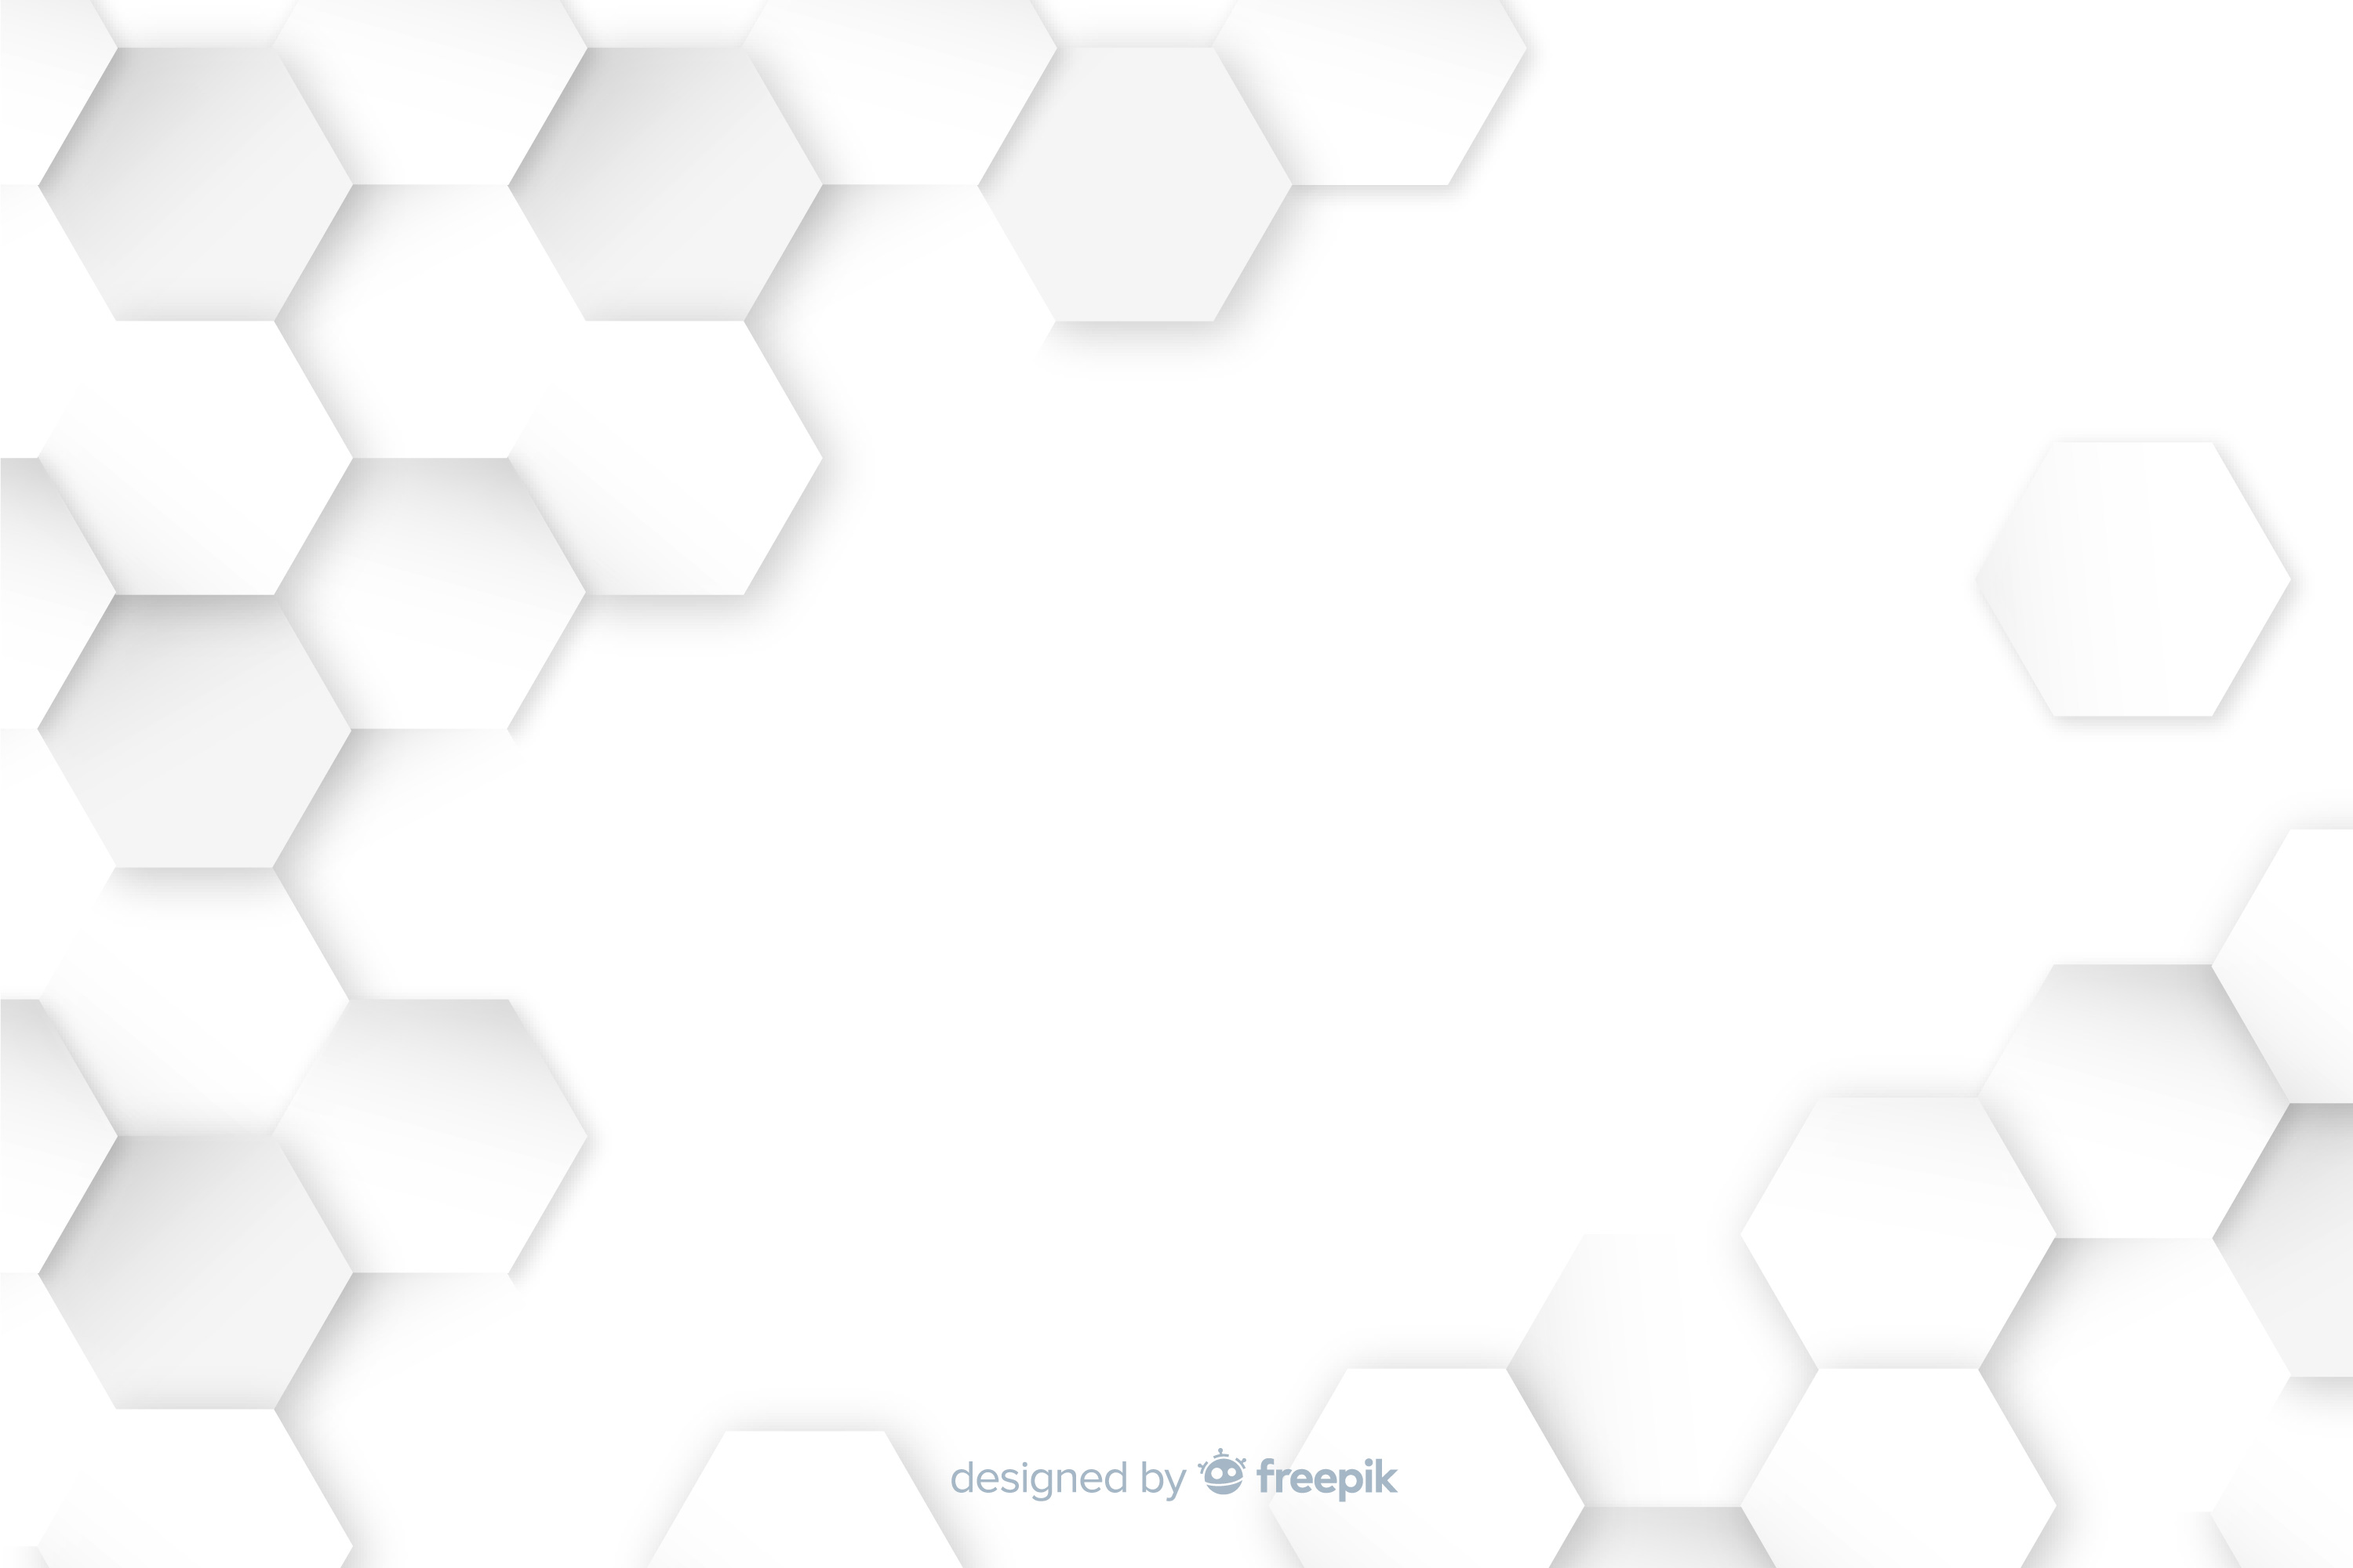
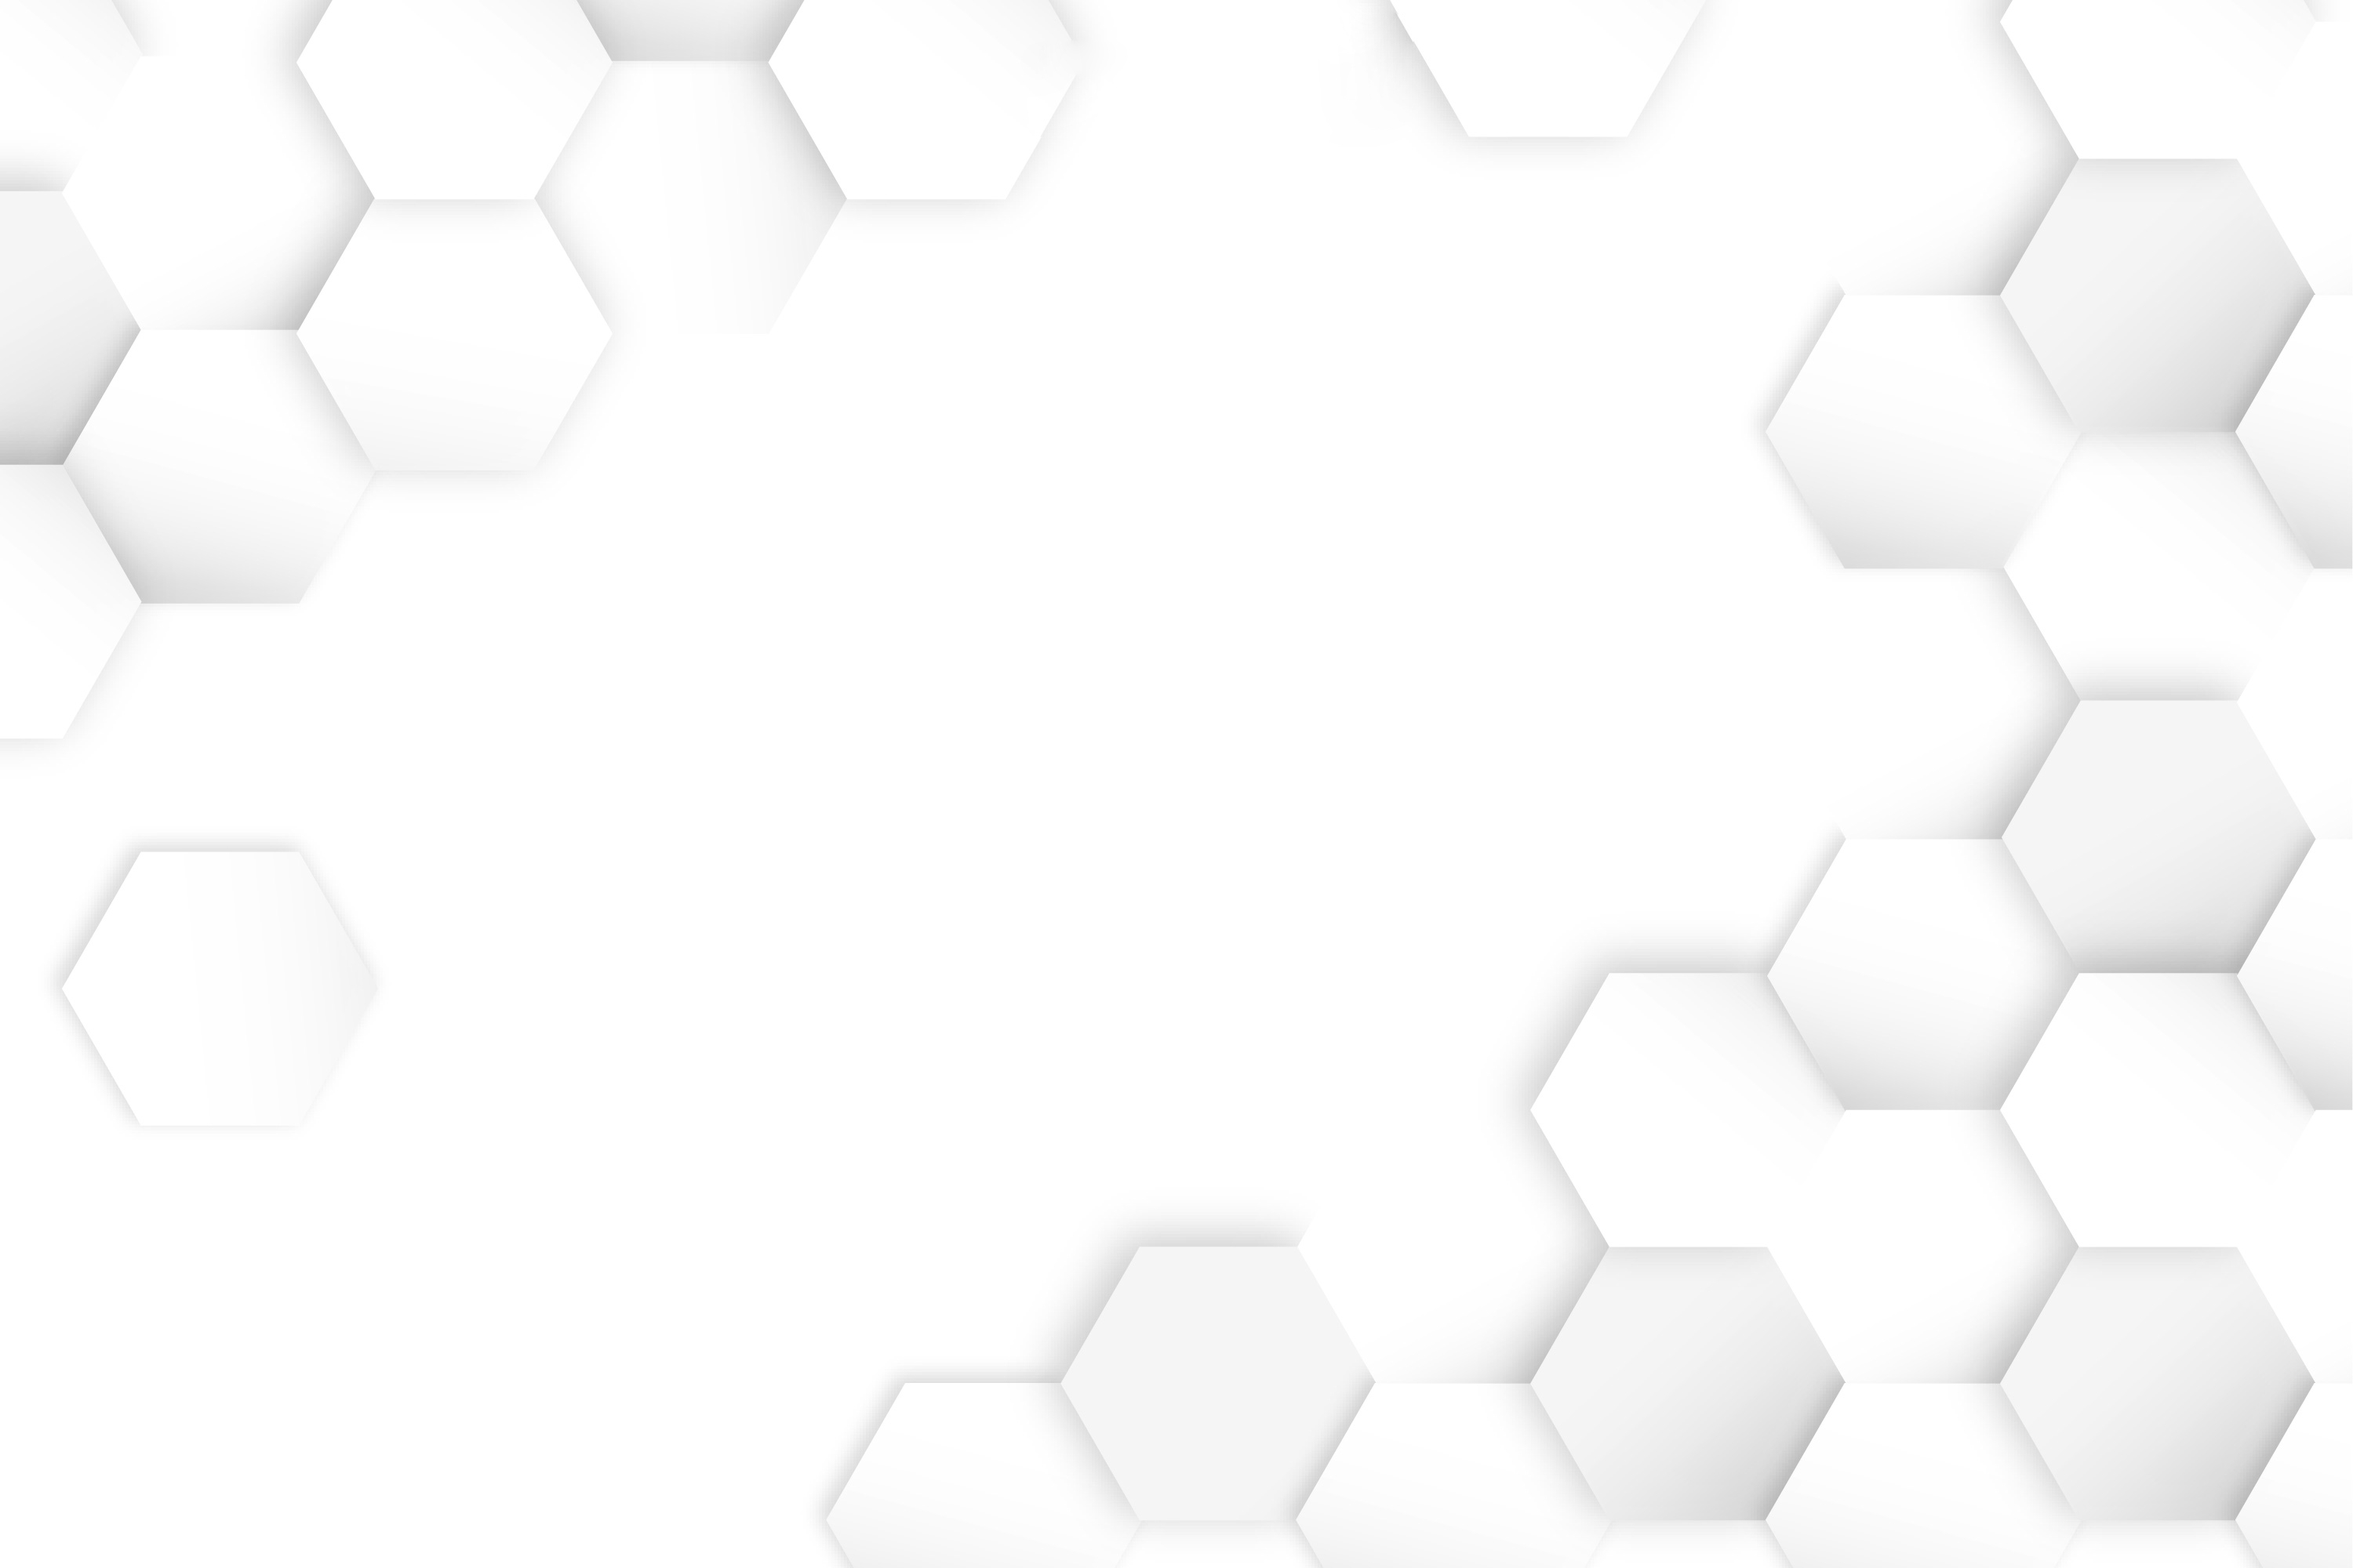
ajustado os diagnosticos e receita, falta ajustar alguns campos da anamese

diff --git a/src/public/css/receita.css b/src/public/css/receita.css
@@ -13,22 +13,23 @@
   font-family: 'Poppins', sans-serif;
 }
 
+:root {
+  --receita-bg: url('/img/2964668.jpg');
+  --receita-bg-pos: 20% 60%; /* change to '20% 30%' etc. */
+  --receita-bg-size: 100%; /* change to 'cover', 'contain' or percentage */
+}
+
 .corpo {
   font-family: Poppins;
   margin: 0;
-  padding: 10mm; /* Adjust padding as needed */
+  padding: 0;
   box-sizing: border-box;
   color: var(--sapphire);
-  /* background-image: url('/img/296466.jpg');
-  background-position: center;
-  background-size: 100%;
-  background-attachment: fixed;
-  background-repeat: no-repeat; */
 }
 
 .pagina {
-  width: 148mm; /* A5 width */
-  height: 210mm; /* A5 height */
+  width: 140mm; /* A5 width */
+  height: 200mm; /* A5 height */
   margin: 5mm;
   box-sizing: border-box;
   display: flex;
@@ -40,6 +41,14 @@
   border-top-left-radius: 40px !important; /* Rounded top-left corner */
   border-bottom-right-radius: 40px !important; /* Rounded bottom-right corner */
   padding: 10mm; /* Inner padding */
+  /* Background moved here so the image is shown inside the container
+     Use CSS variables to control which part of the image is visible. */
+  background-image: var(--receita-bg);
+  background-position: var(--receita-bg-pos);
+  background-size: var(--receita-bg-size);
+  background-repeat: no-repeat;
+  background-clip: padding-box; /* keeps image inside border/padding */
+  overflow: hidden; /* clip overflowing parts and respect border-radius */
 }
 
 .cabeca {
@@ -51,19 +60,26 @@
 }
 .patient-details {
   font-size: 13px;
-}
-.dados {
   display: flex;
-  align-items: start;
-  text-align: center;
+  flex-direction: column; /* coloca os elementos em coluna */
+  gap: 4mm;
 }
-.nodia {
+.patient-details .dados {
   display: flex;
-  justify-content: space-between;
-  align-items: flex-end;
+  flex-direction: column;
+  gap: 2mm;
+}
+.patient-details .dados .nome {
+  font-weight: 600;
+}
+.patient-details .dados .dados-row {
+  display: flex;
+  justify-content: space-between; /* data à esquerda, idade à direita */
+  align-items: center;
 }
 .header-info {
-  font-size: 13px;
+  font-size: 18px;
+  font-weight: 600;
 }
 .logos img {
   max-height: 100px; /* Adjust logo size as needed */
@@ -73,38 +89,30 @@
 .header-info {
   text-align: right;
 }
-.nodia {
-  display: block; /* Garante que o elemento ocupe uma linha inteira */
-  text-align: right; /* Alinha o texto à direita */
-  margin-bottom: 10mm; /* Adiciona espaçamento inferior */
-}
-
-.nodia p {
-  margin: 0; /* Remove margens padrão do parágrafo */
-}
 
 .dados {
-  display: flex; /* Define um layout flexível */
-  justify-content: space-between; /* Espaça os componentes igualmente */
-  align-items: center; /* Alinha os componentes verticalmente */
-  gap: 5mm; /* Adiciona espaçamento entre os componentes */
-  margin-bottom: 10mm; /* Adiciona espaçamento inferior */
+  /* fallback generic styling for other contexts */
+  display: block;
 }
-
 .prescription {
-  max-width: 120mm; /* Ensures it does not exceed the container's width */
   overflow-wrap: break-word; /* Breaks long words to fit within the container */
-  margin-bottom: 20mm; /* Adds spacing below the prescription section */
 }
-.prescription h3 {
+.prescription p,
+h3 {
   text-align: center;
   margin-bottom: 5mm;
+  font-size: 13px;
+}
+.prescription img {
+  width: auto;
+  height: 40mm;
+  margin-left: 20px;
 }
 table {
   width: 100%; /* Faz a tabela ocupar toda a largura do contêiner */
   table-layout: fixed; /* Garante que as colunas tenham larguras fixas */
   border-collapse: collapse; /* Remove espaços entre as células */
-  margin-bottom: 30mm; /* Espaçamento inferior */
+  margin-bottom: 5mm; /* Espaçamento inferior */
 }
 
 th,
@@ -132,20 +140,19 @@ th {
 .assinatura {
   text-align: end;
 }
-footer {
-  width: 148mm;
+.rodape {
   display: flex;
   flex-direction: row;
   justify-content: space-between;
   align-items: center;
   margin-top: 2mm;
 }
-footer img {
+.rodape img {
   max-height: 50px; /* Adjust logo size as needed */
   margin-right: 5mm;
   margin-left: 0;
 }
-footer p {
+.rodape p {
   text-align: right;
   font-size: 13px;
   font-weight: 600;
@@ -165,6 +172,10 @@ footer p {
     width: 100%;
     height: 100%;
     padding: 5mm;
+    /* print: keep background on container if the browser allows printing backgrounds */
+    background-image: var(--receita-bg);
+    background-position: var(--receita-bg-pos);
+    background-size: var(--receita-bg-size);
   }
   th,
   td {

diff --git a/src/public/css/main.css b/src/public/css/main.css
@@ -266,6 +266,13 @@ select.form-control:focus {
   background: var(--primary-color);
   border-radius: 0px 20px;
 }
+.table td.col-descricao {
+  white-space: normal; /* Permite quebra de linha */
+  word-wrap: break-word; /* Força a quebra de palavras muito longas */
+  word-break: break-word;
+  min-width: 200px; /* Define uma largura mínima para a coluna */
+  max-width: 400px; /* Define uma largura máxima opcional */
+}
 
 /* Linhas e badges */
 .list-group-item,
